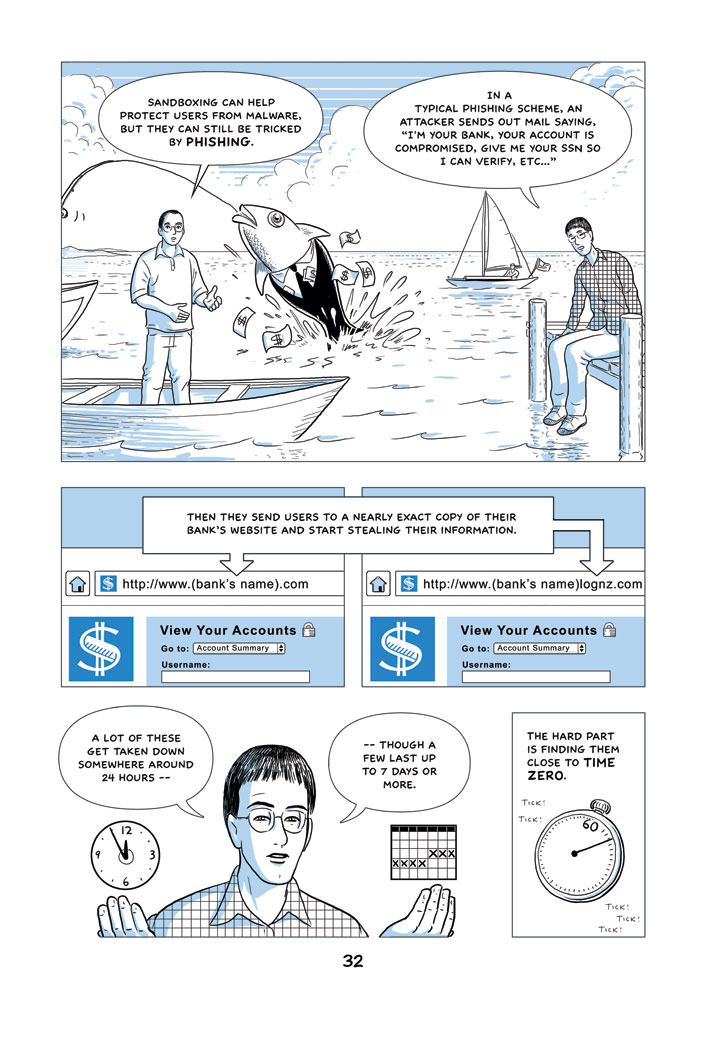
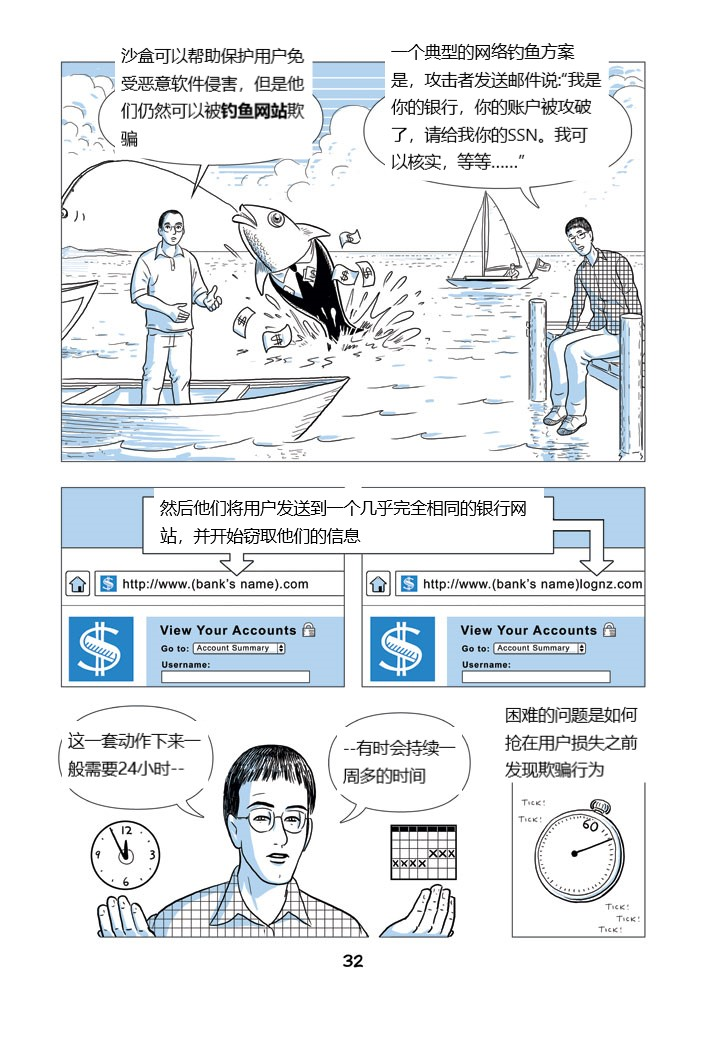
page 33

diff --git a/README.md b/README.md
@@ -539,4 +539,30 @@ and meanwhile, we have a huge surface area reduction in vulnerability, from all 
 
 于是，我们将插件从渲染进程中拉了出来，作为一个单独的进程而存在
 
-通过这种设计方式，即使插件进程出现异常，页面部分仍然作为沙盒运行
+通过这种设计方式，即使插件进程出现异常，页面部分仍然作为沙盒能正常运行
+
+---
+
+沙盒可以帮助保护用户免受恶意软件侵害，但是他们仍然可以被钓鱼网站欺骗
+
+一个典型的网络钓鱼方案是，攻击者发送邮件说:“我是你的银行，你的账户被攻破了，请给我你的SSN。我可以核实，等等……”
+
+然后他们将用户发送到一个几乎完全相同的银行网站，并开始窃取他们的信息
+
+这一套动作下来一般需要24小时--
+
+--有时会持续一周多的时间
+
+困难的问题是如何在用户损失之前发现欺骗行为
+
+---
+
+google chrome持续下载网站黑名单，一个是钓鱼网站，一个恶意网站
+
+如果你访问了名单中的网站，chrome就会警告你
+
+这项服务是免费的，我们很高兴让所有人使用它，所以提供了公共的API
+
+第二个名单是恶意网站，这些网站只要你一访问，就会在你的电脑上大肆破坏
+
+当我们发现有些网站上被坏人用于传播病毒，我们会提醒网站的所有者，他们不是有意这样的，收到提醒后他们会清除病毒
